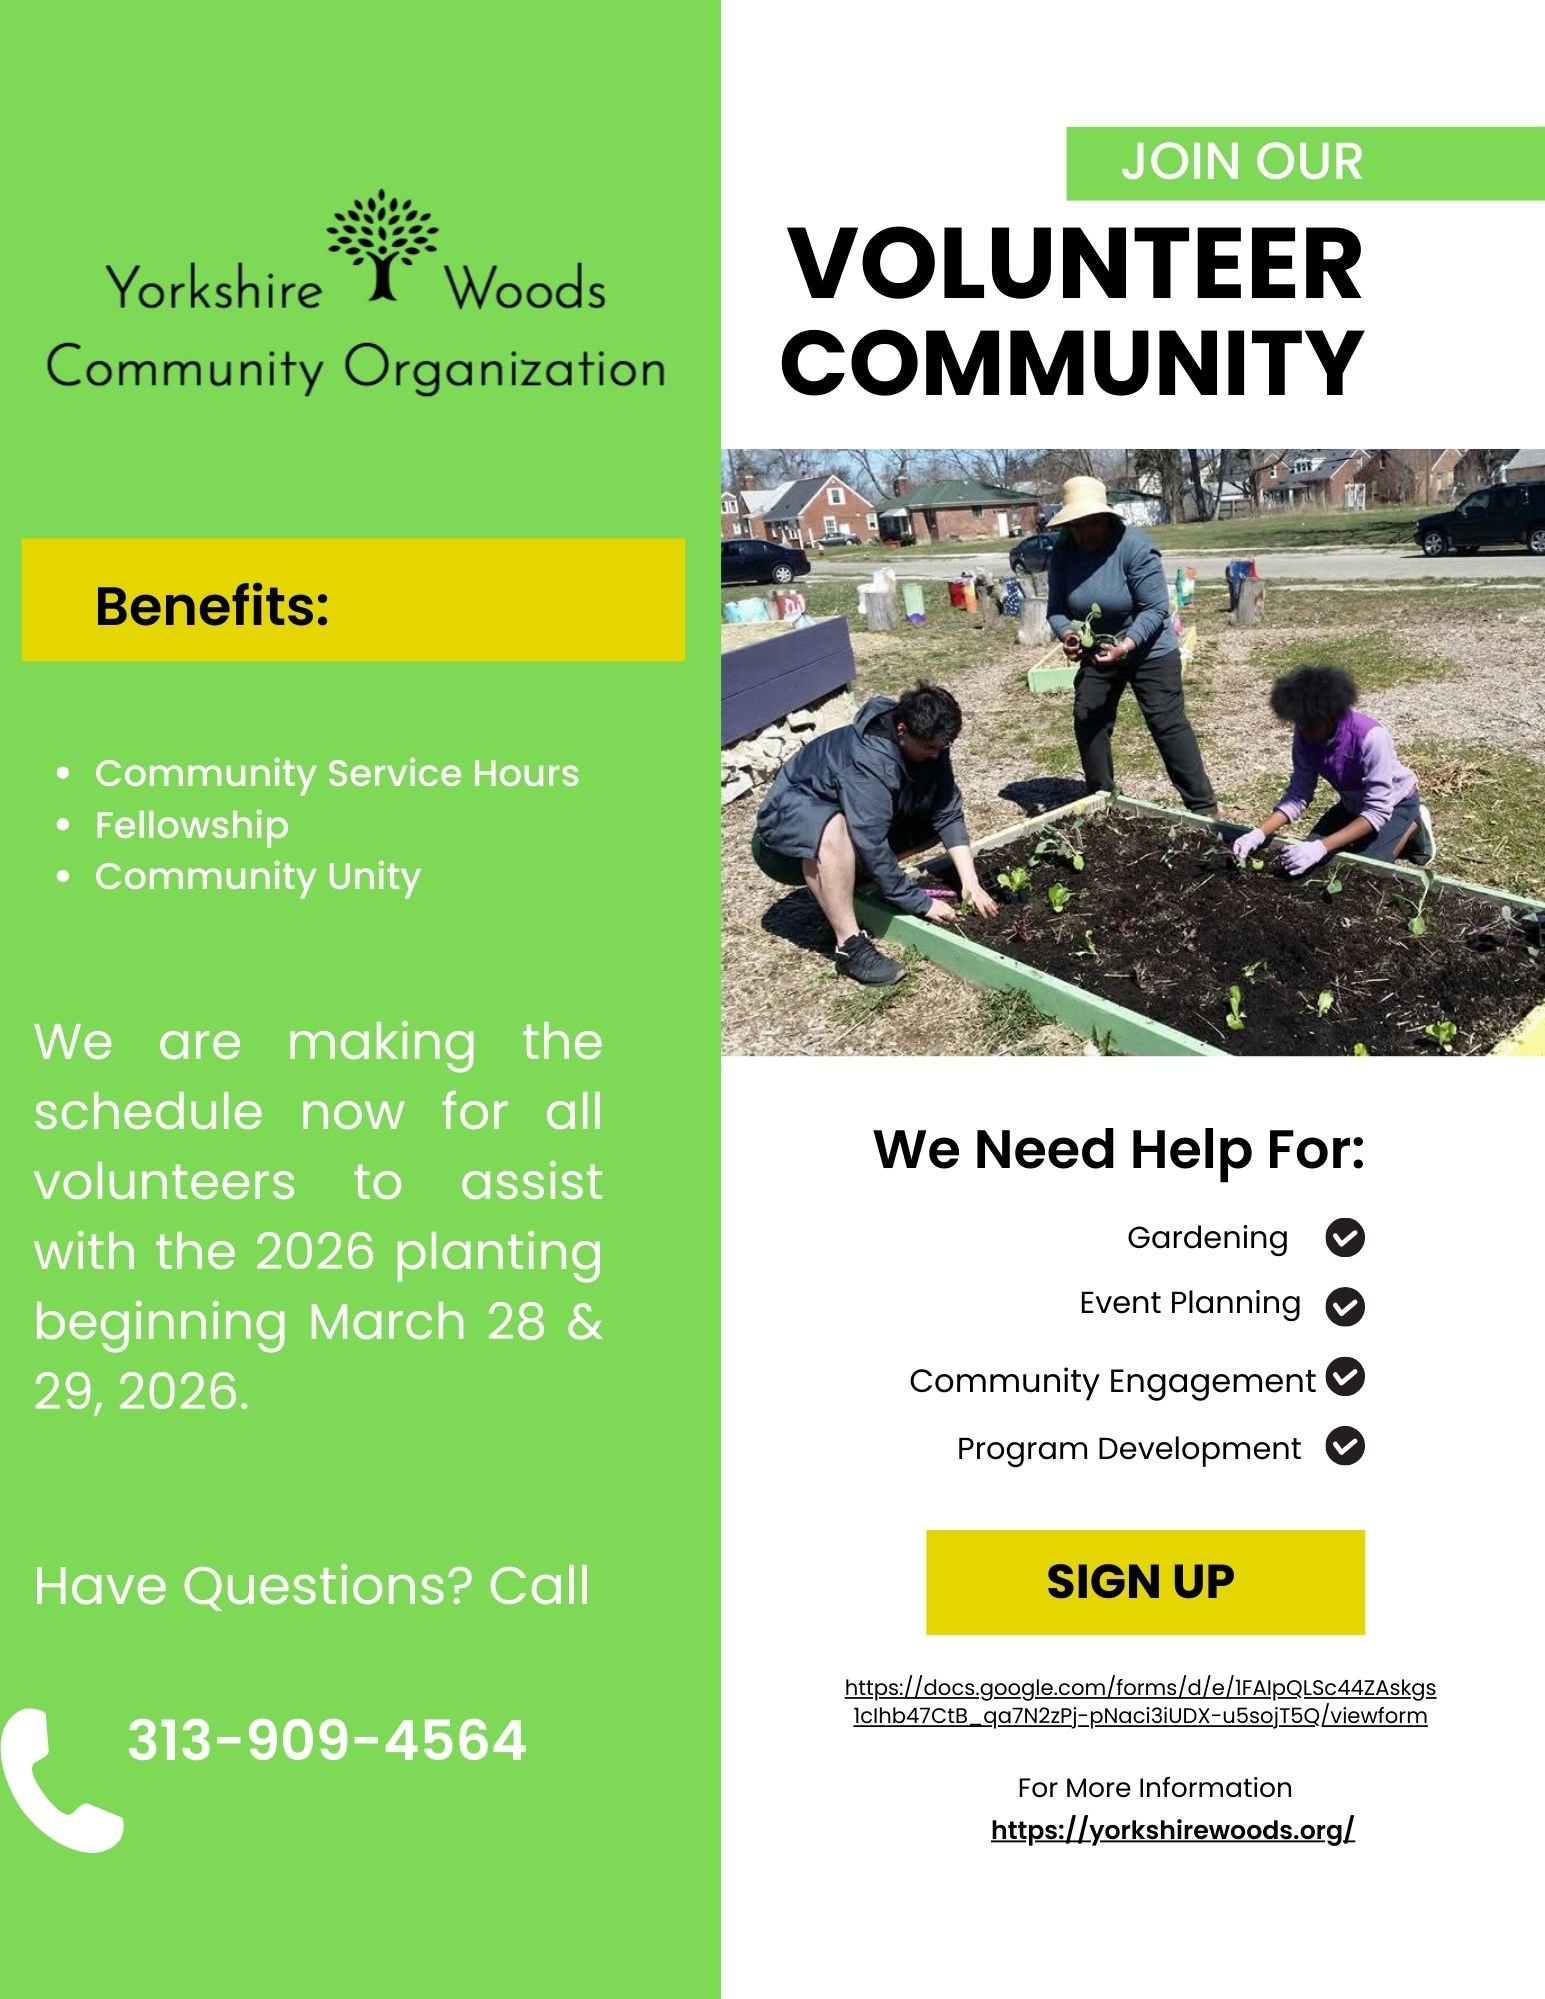
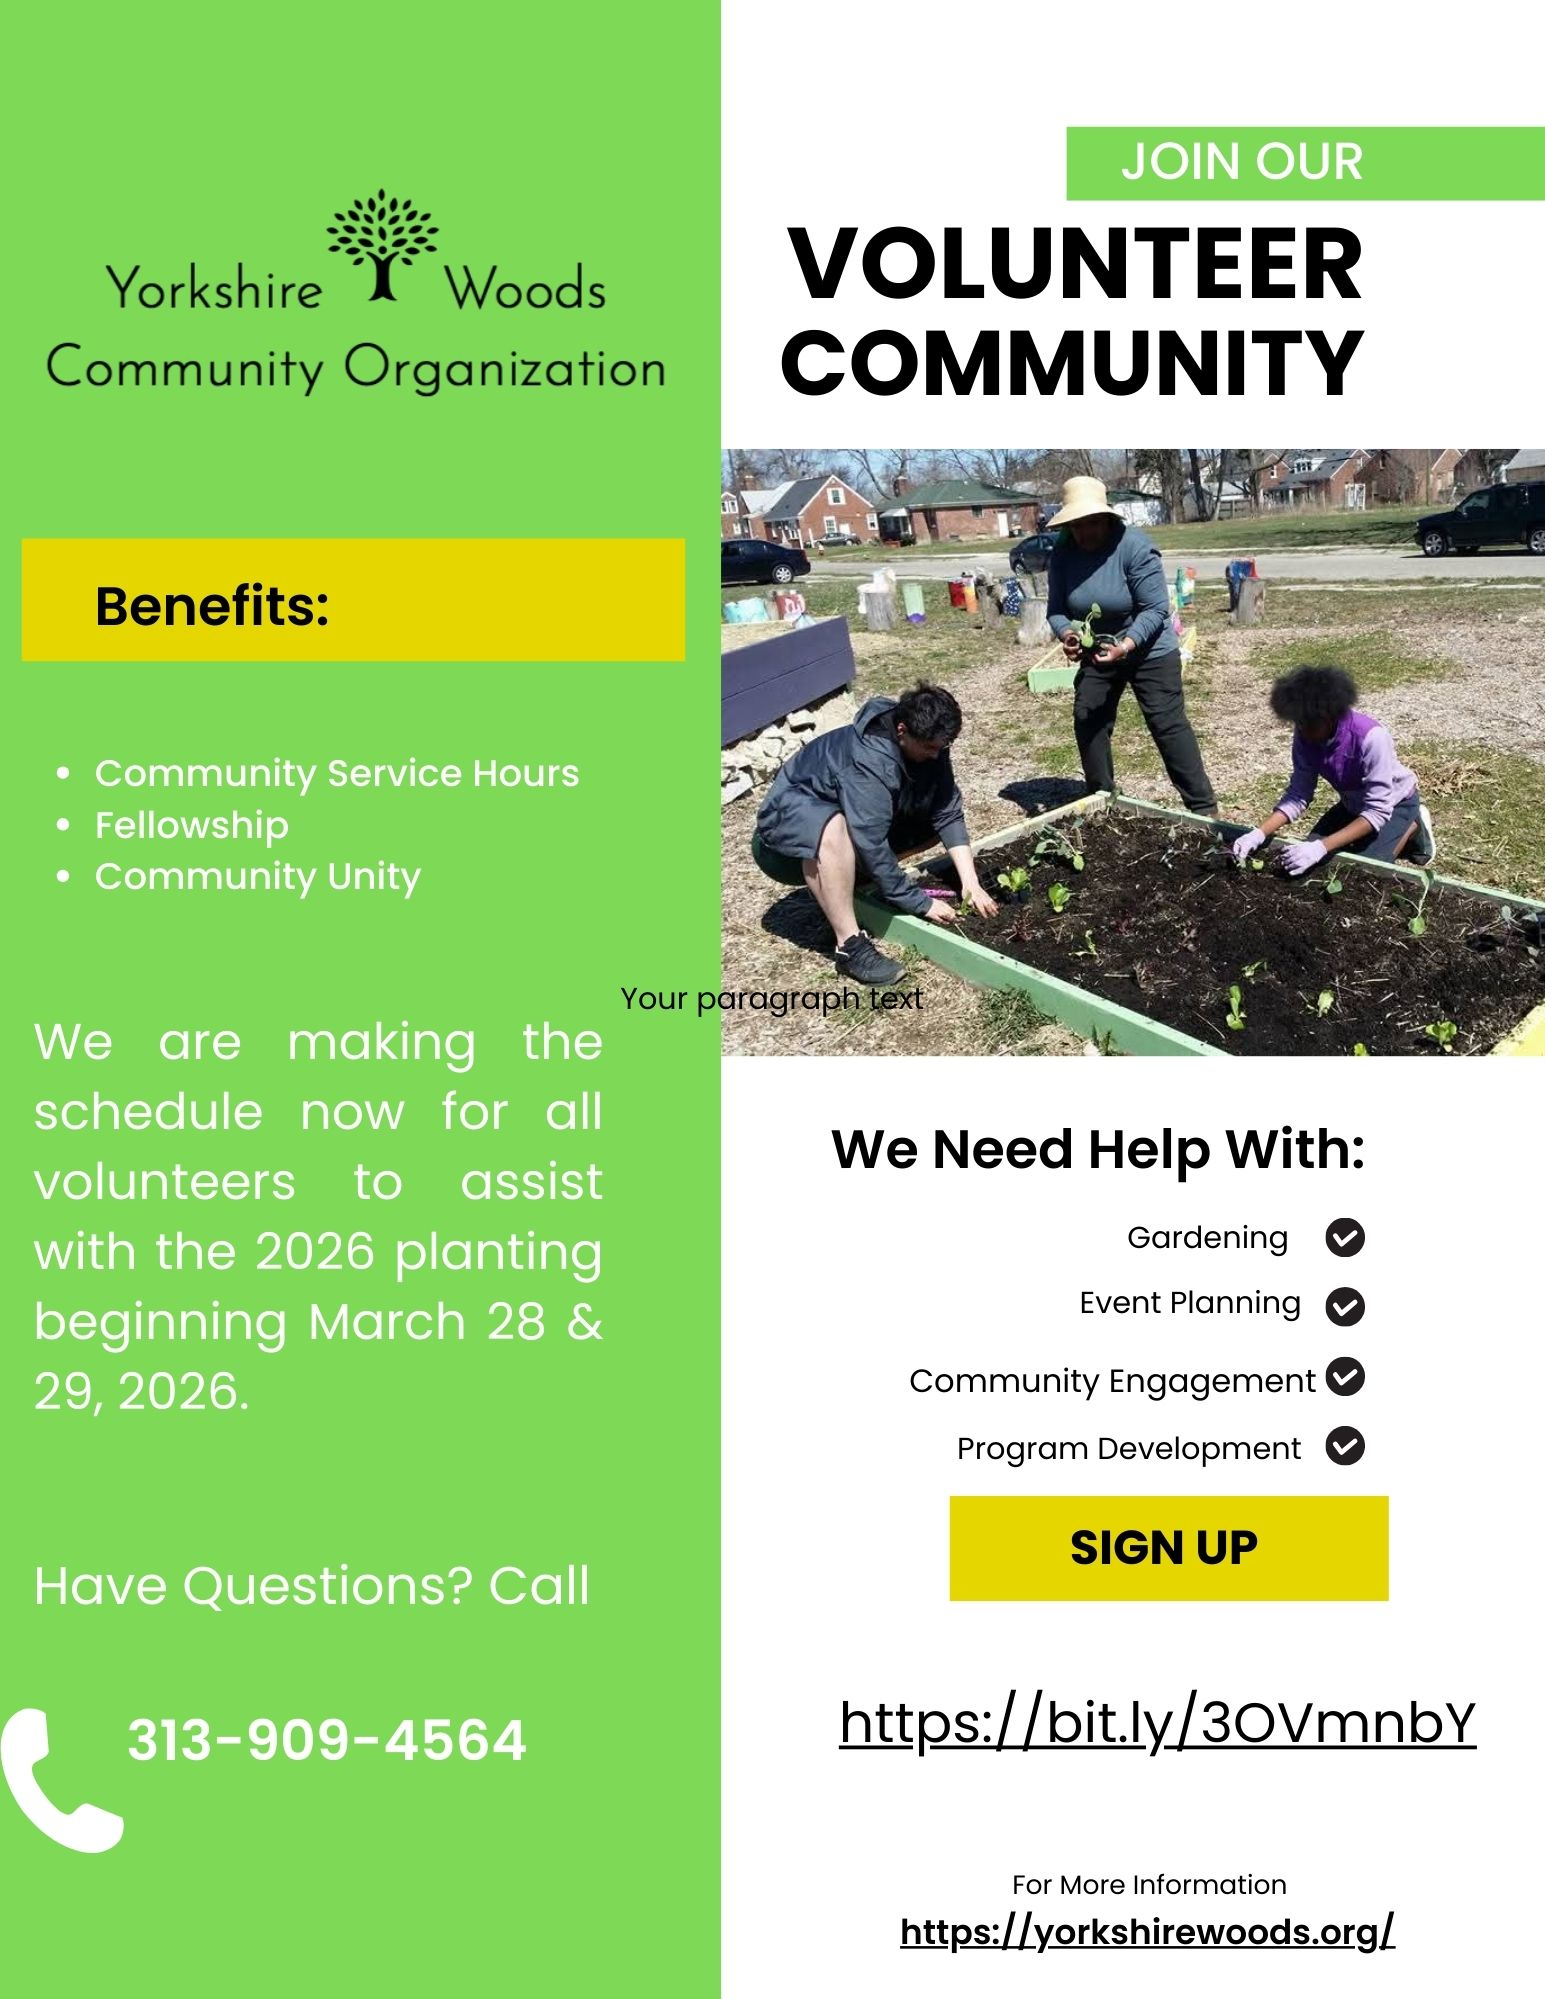
fix: Use updated image and bitly link for spring 2026 flyer

Changed region(s): [[0.5282, 0.7444, 0.9631, 0.9925], [0.5282, 0.5583, 0.8699, 0.5893], [0.4039, 0.4962, 0.5903, 0.5273]]

diff --git a/pages/index.vue b/pages/index.vue
@@ -12,12 +12,8 @@
           volunteering with Yorkshire Woods Community Organization. Whether you've got a green thumb, love planning
           events, or just hanging out with friends and neighbors,
           there's a place for you here!
-          <a href="mailto:yorkshirewoodsneighborhood@gmail.com&subject=Spring%202026%20volunteer%20interest%20&body=I%20am%20interested%20in%20helping%20this%20spring!"
-            class="text-center my-2 block text-xl text-green-700">
-            Interested?
-            Email
-            us and we'll
-            help you every step of the way!
+          <a href="https://bit.ly/3OVmnbY" class="text-center my-2 block text-xl text-green-700">
+            Fill out our volunteer interest form and we'll help you every step of the way!
           </a>
         </p>
         <figure>
